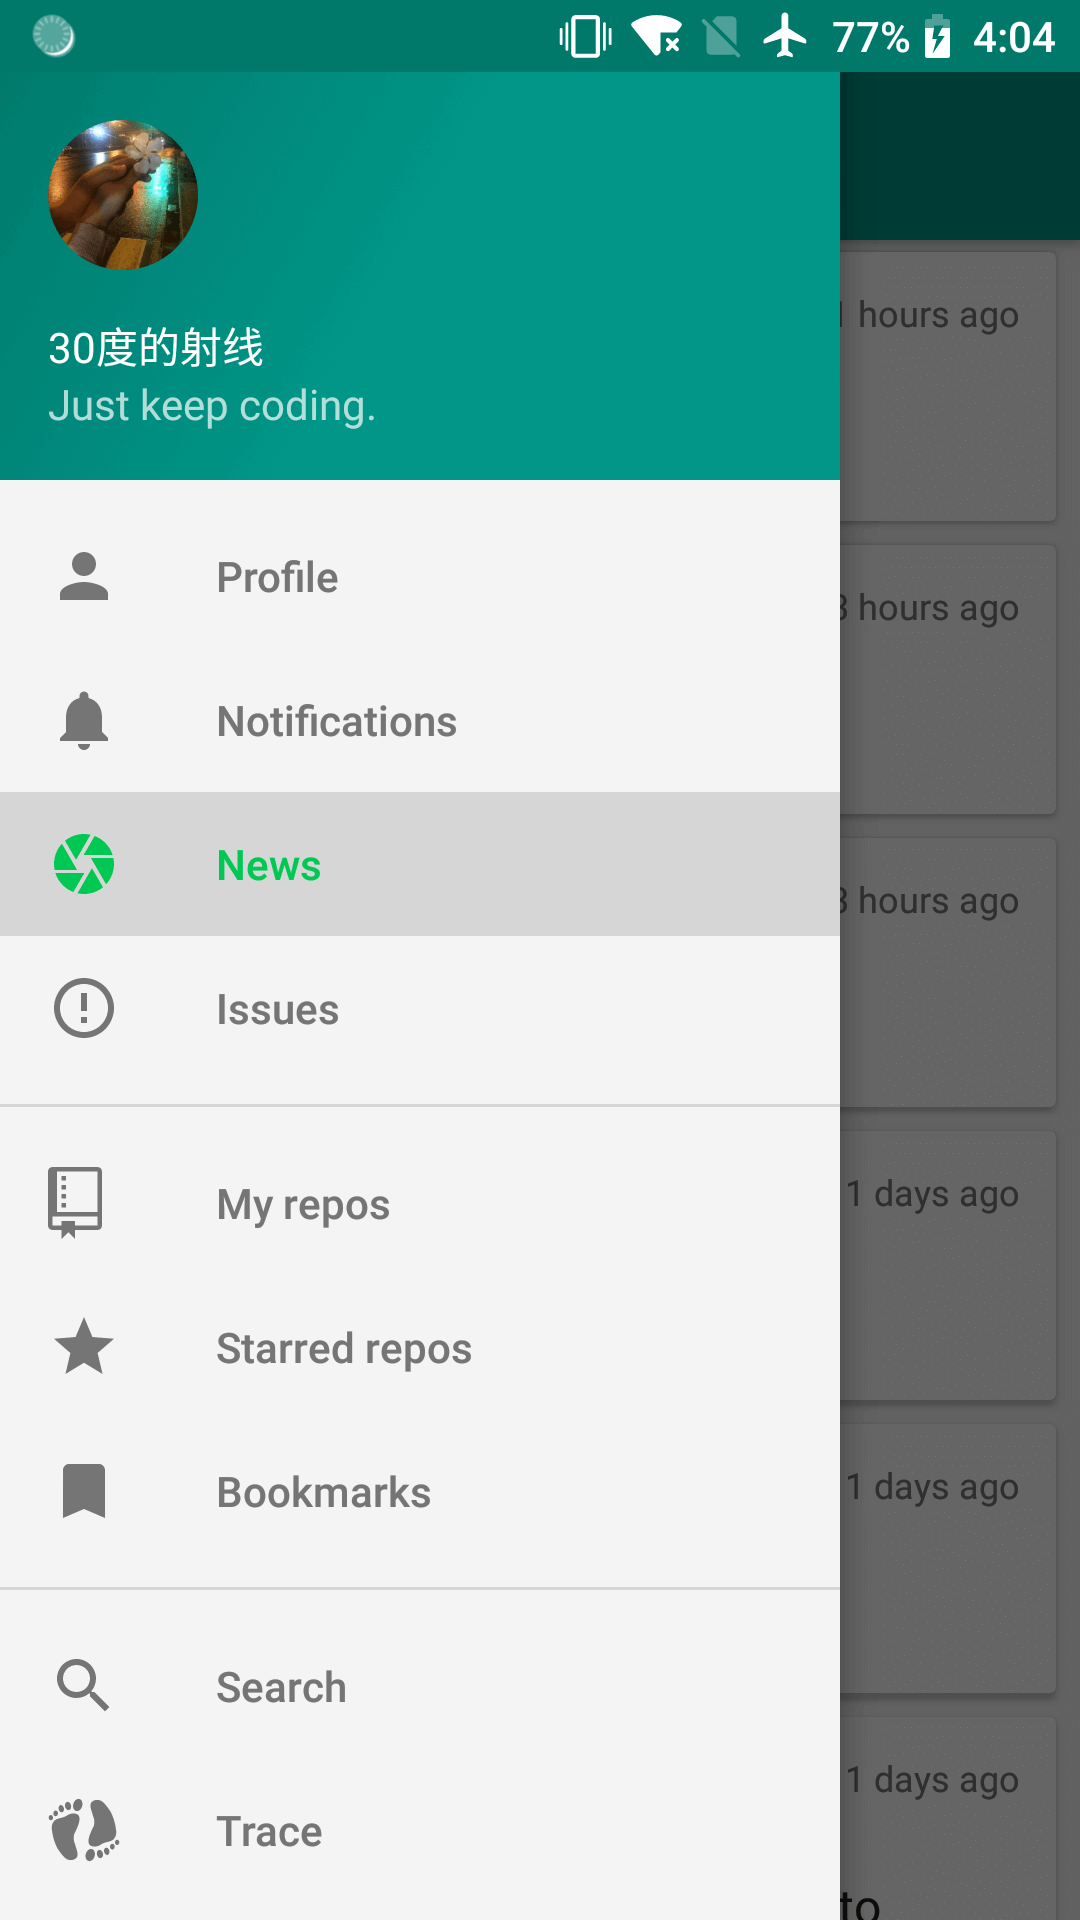
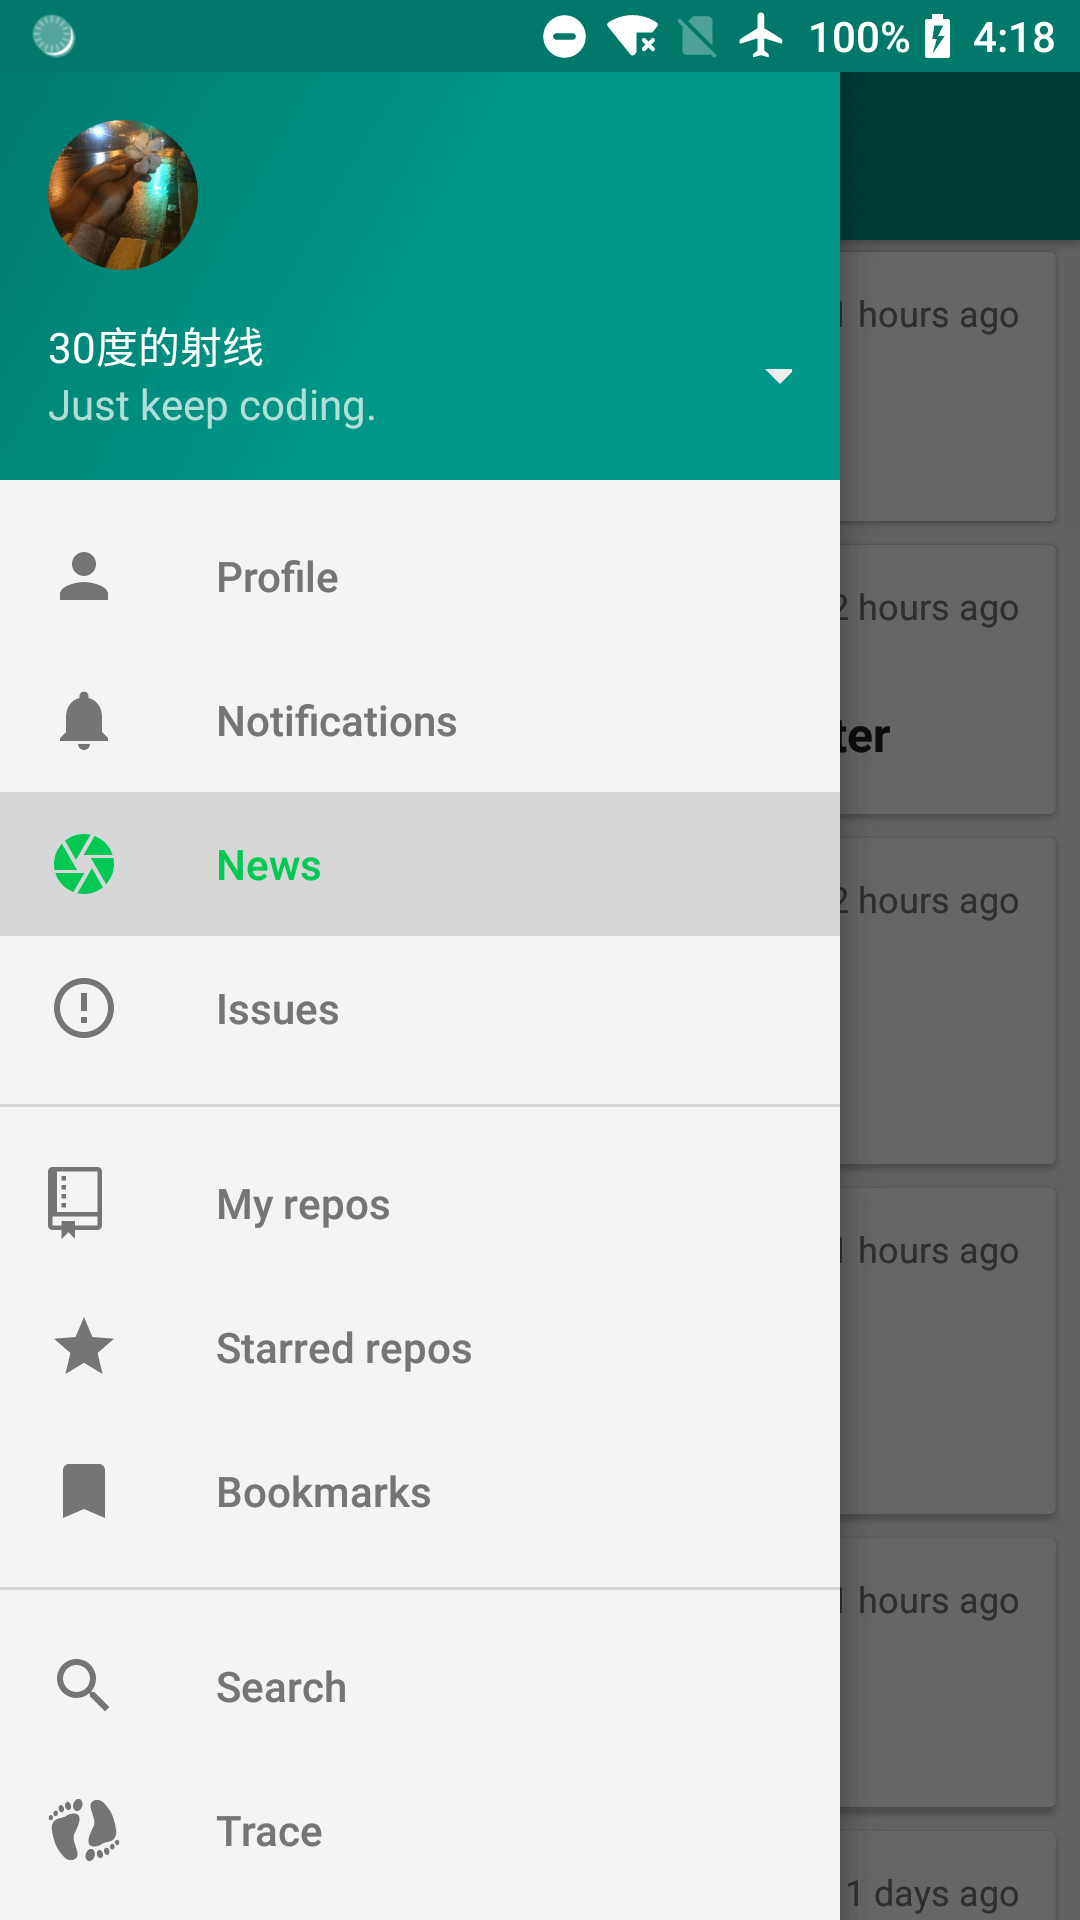
release v2.7.0

diff --git a/README.md b/README.md
@@ -17,6 +17,7 @@ An **open source** GitHub Android client app, faster and concise.
 * English, Simplified Chinese, Hebrew and German support
 * Offline mode
 * Support trending repositories of all languages
+* Support multi-account switching
 * Search repos and users
 * Shortcuts support
 * Notifications support

diff --git a/README-cn.md b/README-cn.md
@@ -17,6 +17,7 @@
 * 支持英文、简体中文、希伯来语和德语
 * 支持离线模式
 * 支持所有语言的最热版本库查看
+* 支持多账户切换
 * 搜索版本库和用户
 * 支持7.1以上快捷方式创建
 * 支持消息通知
